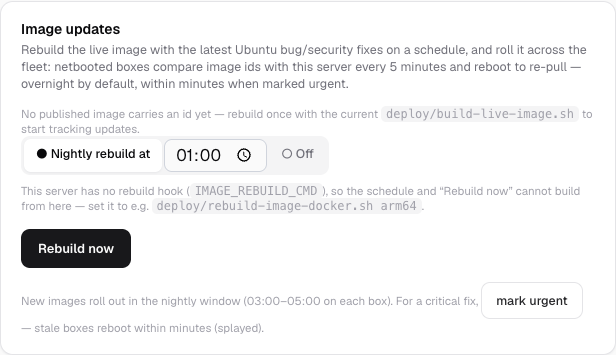
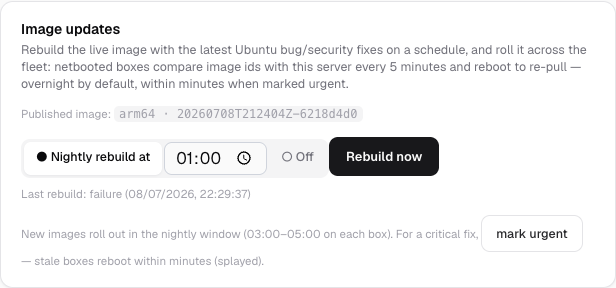
fix(server): POL-41 run the rebuild hook from the repo root
The dev stack launches the server from packages/server, so a relative
IMAGE_REBUILD_CMD like "deploy/rebuild-image-docker.sh arm64" failed with
"No such file or directory" (caught by the recorded failure log tail working
as designed). The hook now spawns with cwd = repo root.

diff --git a/packages/server/src/image-updates.ts b/packages/server/src/image-updates.ts
@@ -19,11 +19,17 @@
  */
 import { spawn } from "node:child_process";
 import { readFile, stat } from "node:fs/promises";
-import { join } from "node:path";
+import { dirname, join, resolve } from "node:path";
+import { fileURLToPath } from "node:url";
 
 import type { FastifyBaseLogger } from "fastify";
 
 import type { PersistedImageRollout, Store } from "./store/types";
+
+/** The hook runs from the REPO ROOT (…/packages/server/src → repo), so `deploy/…` paths in
+ *  IMAGE_REBUILD_CMD work regardless of the server process's own cwd (the dev stack runs from
+ *  packages/server; found live when the first hook run failed with "No such file or directory"). */
+const HOOK_CWD = resolve(dirname(fileURLToPath(import.meta.url)), "..", "..", "..");
 
 const ARCHES = ["arm64", "amd64"] as const;
 type Arch = (typeof ARCHES)[number];
@@ -179,6 +185,7 @@ export class ImageUpdates {
 
     const status: "success" | "failure" = await new Promise((resolvePromise) => {
       const child = spawn("/bin/sh", ["-c", this.rebuildCmd as string], {
+        cwd: HOOK_CWD,
         stdio: ["ignore", "pipe", "pipe"],
       });
       const killer = setTimeout(() => {
